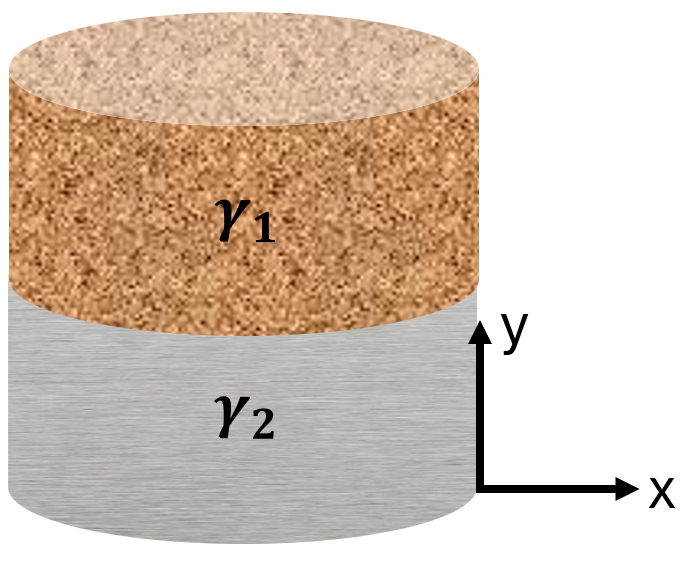
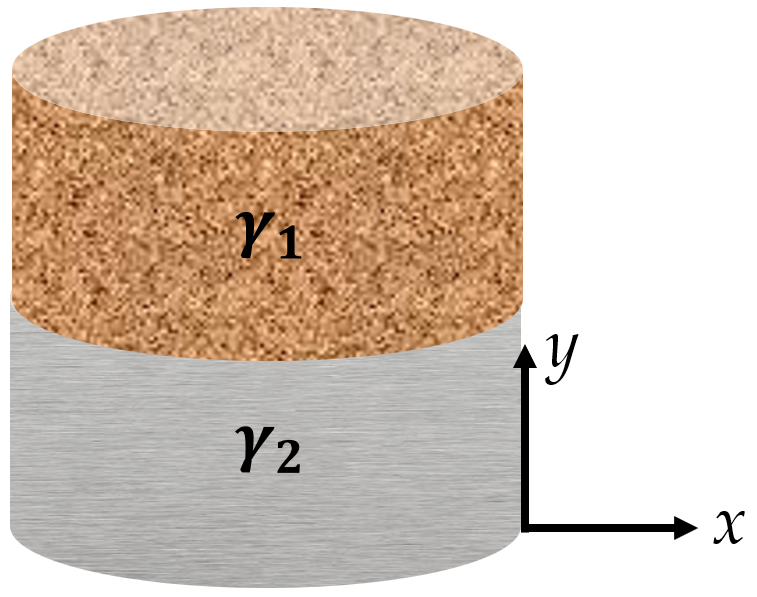
Teoria_CT

diff --git a/Class_Teoria.py b/Class_Teoria.py
@@ -1180,20 +1180,20 @@ conceptuales = [
     #     respuesta_P2 = "",
     #     ),
     
-    # Theory(#9
-    #     code = 7100090, 
-    #     no_pregunta = 9,
-    #     topic = "Centroides",
-    #     subtopic = "Centroides",
-    #     enunciado ="¿Dónde se encuentra el centro de masa de la placa compuesta mostrada en la siguiente figura?: ", 
-    #     opcion_1 = "En el eje y se ubica en h/2 y en el eje x en b/2",
-    #     opcion_2 = "En el eje y se ubica en h/2 y en el eje x se ubica más cerca del lado de la madera.",
-    #     opcion_3 = "En el eje y se ubica en h/2 y en el eje x se ubica más cerca del lado del acero.",
-    #     opcion_4 = "En el eje y se ubica en la base y en el eje x se ubica más cerca del lado de la acero.",
-    #     opcion_correcta = "En el eje y se ubica en h/2 y en el eje x se ubica más cerca del lado del acero.",
-    #     respuesta_P1 = "El centro de masa se encuentra más cerca del material que tiene mayor densidad. Como el metal tiene una densidad mayor que la madera, el centro de masa se desplazará hacia el lado del metal, ya que esta parte contribuye con más masa al objeto total.",
-    #     respuesta_P2 = "",
-    #     ),
+    Theory(#9
+        code = 7100090, 
+        no_pregunta = 9,
+        topic = "Centroides",
+        subtopic = "Centroides",
+        enunciado ="¿Dónde se encuentra el centro de masa de la placa compuesta mostrada en la siguiente figura?", 
+        opcion_1 = "En el eje $y$, se ubica en $h/2$; en el eje $x$, en $b/2$.",
+        opcion_2 = "En el eje $y$, se ubica en $h/2$; en el eje $x$, se ubica más cerca del lado de la madera.",
+        opcion_3 = "En el eje $y$, se ubica en $h/2$; y en el eje $x$, se ubica más cerca del lado del acero.",
+        opcion_4 = "En el eje $y$, se ubica en la base; y en el eje $x$, se ubica más cerca del lado del acero.",
+        opcion_correcta = "En el eje $y$, se ubica en $h/2$; y en el eje $x$, se ubica más cerca del lado del acero.",
+        respuesta_P1 = "El centro de masa de un sistema compuesto se encuentra más cerca del material que aporta mayor masa. En este caso, aunque la madera y el acero tienen el mismo volumen, el acero tiene mayor densidad, por lo que su contribución de masa es mayor. Por ello, el centro de masa se ubicará hacia el lado del acero, manteniéndose a $h/2$ sobre el eje y ya que ambas mitades tienen igual altura.",
+        respuesta_P2 = "",
+        ),
     
     Theory(#10
         code = 7100100, 

diff --git a/Interface.py b/Interface.py
@@ -1321,6 +1321,10 @@ if authenticate_user():
                     st.image(CT_teoria_preguntas[1], width=350)
                 if pregunta_no == 6:
                     st.image(CT_teoria_preguntas[2], width=300)
+                if pregunta_no == 9:
+                    st.image(CT_teoria_preguntas[3], width=350)
+                if pregunta_no == 10:
+                    st.image(CT_teoria_preguntas[4], width=300)
             if subtopic == "Vigas":
                 if pregunta_no == 1:
                     st.image(FD_teoria_preguntas[0], width=520)

diff --git a/Imagenes.py b/Imagenes.py
@@ -426,6 +426,8 @@ CT_teoria_preguntas=[
 "./Imagenes/Teoria_Preguntas/CT/T_CT_CT_1.png", #[0] 
 "./Imagenes/Teoria_Preguntas/CT/T_CT_CT_2.png", #[1] 
 "./Imagenes/Teoria_Preguntas/CT/T_CT_CT_6.png", #[2] 
+"./Imagenes/Teoria_Preguntas/CT/T_CT_CT_9.png", #[3] 
+"./Imagenes/Teoria_Preguntas/CT/T_CT_CT_10.png", #[4] 
 ]
 
 FD_teoria_preguntas = [
